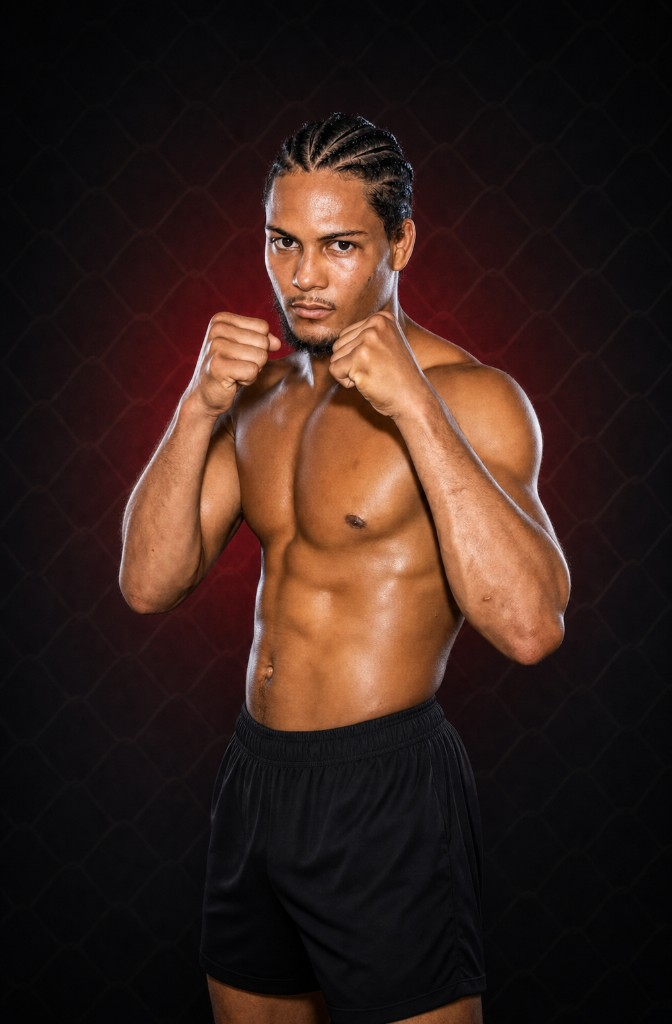
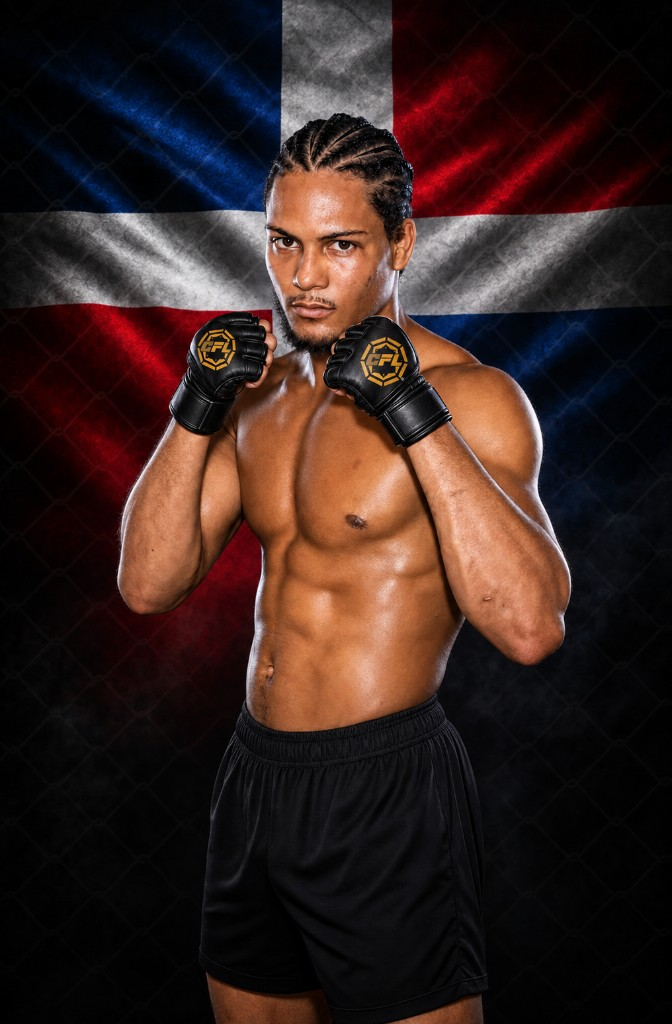
Update Atletas portraits and replace the home hero with the Arena Banreservas premiere shot.

diff --git a/index.html b/index.html
@@ -64,7 +64,7 @@
   <main id="main">
     <section class="hero" data-i18n-aria="hero_label" aria-label="CFL fight night">
       <div class="hero-slider" data-slider>
-        <article class="hero-slide is-active" style="--hero-image: url('assets/ty-jhonson-us.png?v=5');">
+        <article class="hero-slide hero-slide-premiere is-active" style="--hero-image: url('assets/cfl-arena-premiere.jpg?v=1');">
           <div class="hero-shade"></div>
           <div class="hero-content reveal">
             <p class="eyebrow" data-i18n="hero1_eyebrow">Fight night countdown</p>
@@ -75,7 +75,7 @@
               <a class="button button-ghost" href="#talento" data-i18n="hero1_cta2">Conoce el talento</a>
             </div>
           </div>
-          <div class="hero-caption">Ty “La Pollona” Jhonson</div>
+          <div class="hero-caption" data-i18n="hero1_caption">CFL Fight Night · Arena Banreservas</div>
         </article>
 
         <article class="hero-slide" style="--hero-image: url('assets/cfl-arena-boxing.png');">
@@ -184,7 +184,7 @@
         <h3 class="roster-group-title" data-i18n="roster_mma">MMA</h3>
         <div class="fighter-grid">
           <a class="fighter-card" href="fighter.html?id=ty-jhonson">
-            <img src="assets/ty-jhonson.png?v=4" alt="Ty La Pollona Jhonson" loading="lazy" />
+            <img src="assets/ty-jhonson.png?v=6" alt="Ty La Pollona Jhonson" loading="lazy" />
             <div class="fighter-overlay">
               <span data-i18n="fighter_ty">MMA · Estados Unidos</span>
               <h3>Ty “La Pollona” Jhonson</h3>
@@ -192,7 +192,7 @@
           </a>
 
           <a class="fighter-card" href="fighter.html?id=vincent-vangogh">
-            <img src="assets/vincent-vangogh.png?v=4" alt="Vincent El Cuco Van Gogh en una entrada de CFL" loading="lazy" />
+            <img src="assets/vincent-vangogh.png?v=6" alt="Vincent El Cuco Van Gogh" loading="lazy" />
             <div class="fighter-overlay">
               <span data-i18n="fighter_vincent">MMA · República Dominicana</span>
               <h3>Vincent “El Cuco” Van Gogh</h3>
@@ -200,7 +200,7 @@
           </a>
 
           <a class="fighter-card" href="fighter.html?id=branny-rosario">
-            <img src="assets/branny-rosario.png?v=4" alt="Branny Rosario en una entrada de CFL" loading="lazy" />
+            <img src="assets/branny-rosario.png?v=6" alt="Branny Rosario" loading="lazy" />
             <div class="fighter-overlay">
               <span data-i18n="fighter_branny">MMA · República Dominicana</span>
               <h3>Branny Rosario</h3>
@@ -208,7 +208,7 @@
           </a>
 
           <a class="fighter-card" href="fighter.html?id=delffy-humer">
-            <img src="assets/delffy-humer.png?v=4" alt="Delffy Humer en una entrada de CFL" loading="lazy" />
+            <img src="assets/delffy-humer.png?v=6" alt="Delffy Humer" loading="lazy" />
             <div class="fighter-overlay">
               <span data-i18n="fighter_delffy">MMA · República Dominicana</span>
               <h3>Delffy Humer</h3>
@@ -221,7 +221,7 @@
         <h3 class="roster-group-title" data-i18n="roster_boxing">Boxeo</h3>
         <div class="fighter-grid">
           <a class="fighter-card" href="fighter.html?id=thomas-blumenfeld">
-            <img src="assets/thomas-blumenfeld.png?v=4" alt="Thomas Blumenfeld" loading="lazy" />
+            <img src="assets/thomas-blumenfeld.png?v=6" alt="Thomas Blumenfeld" loading="lazy" />
             <div class="fighter-overlay">
               <span data-i18n="fighter_thomas">Boxeo · Canadá</span>
               <h3>Thomas Blumenfeld</h3>
@@ -229,7 +229,7 @@
           </a>
 
           <a class="fighter-card" href="fighter.html?id=yancarlos-perez">
-            <img src="assets/yancarlos-perez.png?v=4" alt="Yancarlos Perez en una entrada de CFL" loading="lazy" />
+            <img src="assets/yancarlos-perez.png?v=6" alt="Yancarlos Perez" loading="lazy" />
             <div class="fighter-overlay">
               <span data-i18n="fighter_yancarlos">Boxeo · República Dominicana</span>
               <h3>Yancarlos Perez</h3>
@@ -237,7 +237,7 @@
           </a>
 
           <a class="fighter-card" href="fighter.html?id=miguel-arias">
-            <img src="assets/miguel-arias.jpg" alt="Miguel Angel Arias" loading="lazy" />
+            <img src="assets/miguel-arias.jpg?v=2" alt="Miguel Angel Arias" loading="lazy" />
             <div class="fighter-overlay">
               <span data-i18n="fighter_miguel">Boxeo · República Dominicana</span>
               <h3>Miguel Angel “Brazo” Arias</h3>

diff --git a/fighters-data.js b/fighters-data.js
@@ -8,7 +8,7 @@ window.CFL_FIGHTERS = {
     country: { es: "Estados Unidos", en: "United States" },
     countryCode: "us",
     based: { es: "Punta Cana, República Dominicana", en: "Punta Cana, Dominican Republic" },
-    image: "assets/ty-jhonson.png?v=4",
+    image: "assets/ty-jhonson.png?v=6",
     record: "14-7-0",
     division: { es: "Peso pluma", en: "Featherweight" },
     height: "5′7″ / 170 cm",
@@ -40,7 +40,7 @@ window.CFL_FIGHTERS = {
     country: { es: "Canadá", en: "Canada" },
     countryCode: "ca",
     based: { es: "Springfield, Vermont / Canadá", en: "Springfield, Vermont / Canada" },
-    image: "assets/thomas-blumenfeld.png?v=4",
+    image: "assets/thomas-blumenfeld.png?v=6",
     record: "12-0-0",
     division: { es: "Ligero / Superligero", en: "Lightweight / Light welterweight" },
     height: "—",
@@ -72,7 +72,7 @@ window.CFL_FIGHTERS = {
     country: { es: "República Dominicana", en: "Dominican Republic" },
     countryCode: "do",
     based: { es: "Santo Domingo, República Dominicana", en: "Santo Domingo, Dominican Republic" },
-    image: "assets/vincent-vangogh.png?v=4",
+    image: "assets/vincent-vangogh.png?v=6",
     record: "6-3-0 (1 NC)",
     division: { es: "Peso pluma", en: "Featherweight" },
     height: "5′8″ / 173 cm",
@@ -104,7 +104,7 @@ window.CFL_FIGHTERS = {
     country: { es: "República Dominicana", en: "Dominican Republic" },
     countryCode: "do",
     based: { es: "Santo Domingo, República Dominicana", en: "Santo Domingo, Dominican Republic" },
-    image: "assets/yancarlos-perez.png?v=4",
+    image: "assets/yancarlos-perez.png?v=6",
     record: "8-1-0",
     division: { es: "Súper gallo", en: "Super bantamweight" },
     height: "5′6″ / 168 cm",
@@ -136,7 +136,7 @@ window.CFL_FIGHTERS = {
     country: { es: "República Dominicana", en: "Dominican Republic" },
     countryCode: "do",
     based: { es: "Santo Domingo, República Dominicana", en: "Santo Domingo, Dominican Republic" },
-    image: "assets/branny-rosario.png?v=4",
+    image: "assets/branny-rosario.png?v=6",
     record: "2-0-0",
     division: { es: "Peso pluma / gallo", en: "Featherweight / Bantamweight" },
     height: "5′9″ / 175 cm",
@@ -165,7 +165,7 @@ window.CFL_FIGHTERS = {
     country: { es: "República Dominicana", en: "Dominican Republic" },
     countryCode: "do",
     based: { es: "Cabarete / Sosúa, República Dominicana", en: "Cabarete / Sosúa, Dominican Republic" },
-    image: "assets/delffy-humer.png?v=4",
+    image: "assets/delffy-humer.png?v=6",
     record: "3-0-0",
     division: { es: "Peso mosca", en: "Flyweight" },
     height: "5′8″ / 173 cm",
@@ -195,7 +195,7 @@ window.CFL_FIGHTERS = {
     country: { es: "República Dominicana", en: "Dominican Republic" },
     countryCode: "do",
     based: { es: "Santo Domingo, República Dominicana", en: "Santo Domingo, Dominican Republic" },
-    image: "assets/miguel-arias.jpg",
+    image: "assets/miguel-arias.jpg?v=2",
     record: "7-0-0",
     division: { es: "Súper wélter", en: "Super welterweight" },
     height: "6′0″ / 183 cm",

diff --git a/i18n.js b/i18n.js
@@ -25,6 +25,7 @@ const CFL_I18N = {
     hero1_copy: "La nueva casa del combate en Latinoamérica. Boxeo, MMA y cultura dominicana en una sola noche.",
     hero1_cta1: "Ver evento",
     hero1_cta2: "Conoce el talento",
+    hero1_caption: "CFL Fight Night · Arena Banreservas",
     hero2_eyebrow: "Boxeo internacional",
     hero2_title: "El mundo pelea en Santo Domingo",
     hero2_copy: "Atletas de República Dominicana, Canadá, Estados Unidos y el Caribe bajo una misma plataforma.",
@@ -300,6 +301,7 @@ const CFL_I18N = {
     hero1_copy: "The new home of combat sports in Latin America. Boxing, MMA, and Dominican culture in one night.",
     hero1_cta1: "View event",
     hero1_cta2: "Meet the talent",
+    hero1_caption: "CFL Fight Night · Arena Banreservas",
     hero2_eyebrow: "International boxing",
     hero2_title: "The world fights in Santo Domingo",
     hero2_copy: "Athletes from the Dominican Republic, Canada, the United States, and the Caribbean on one platform.",

diff --git a/styles.css b/styles.css
@@ -138,6 +138,7 @@ button { color: inherit; }
  transition: opacity .85s ease, visibility .85s ease, transform 6s ease;
 }
 .hero-slide.is-active { opacity: 1; visibility: visible; transform: scale(1); }
+.hero-slide-premiere { background-position: center 38%; }
 .hero-shade {
  position: absolute;
  inset: 0;
@@ -1235,6 +1236,7 @@ a.partner-card:hover {
  .header-cta { display: none; }
  .hero { min-height: 860px; }
  .hero-slide { background-position: 58% center; }
+ .hero-slide-premiere { background-position: center 35%; }
  .hero-shade { background: linear-gradient(0deg, rgba(0,0,0,.95) 0%, rgba(0,0,0,.75) 42%, rgba(0,0,0,.15) 76%); }
  .hero-content { left: 1.25rem; right: 1.25rem; bottom: 10.5rem; width: auto; }
  .hero h1, .hero h2 { font-size: clamp(3.3rem, 15vw, 5.5rem); }
